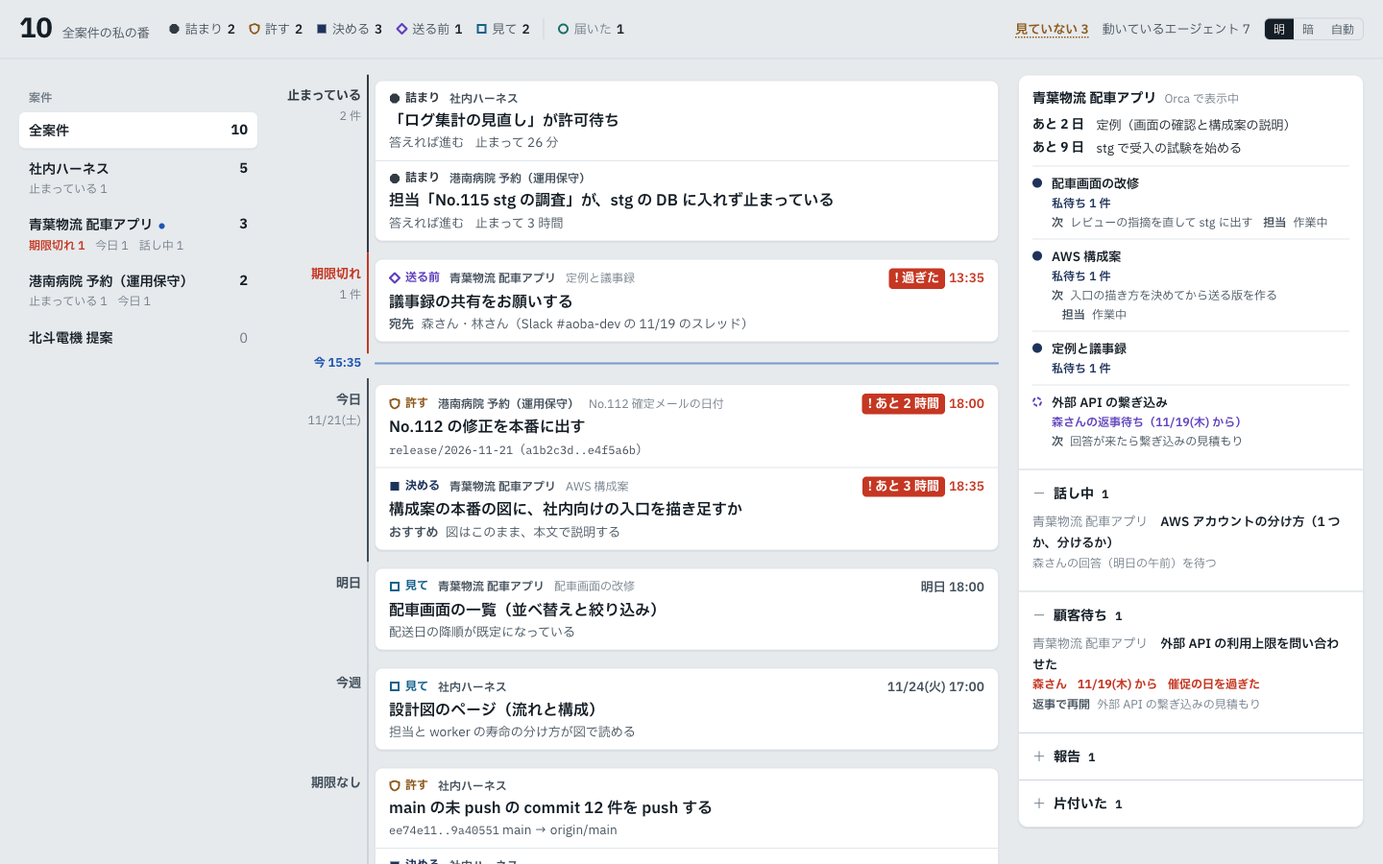
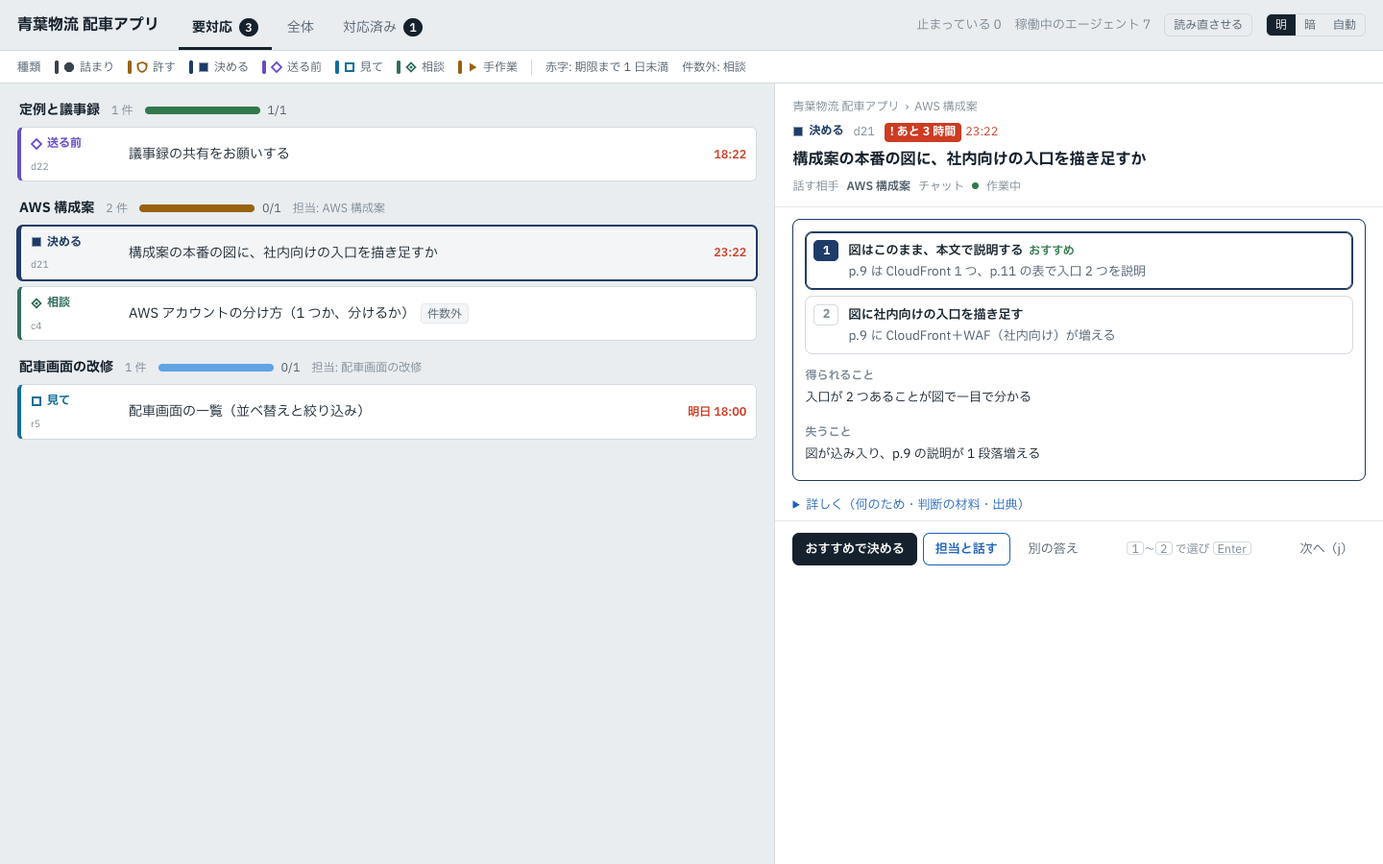
README と窓の見本の画像を版 3 にする
窓の 3 タブ・相談・書く道具・migrate-v3・依頼の帳簿の欄・checks の名前を、窓口と担当が README から引けるようにする。窓の本文が残りの高さを埋めない崩れ（内容が短い案件）も直す。

diff --git a/orca/plugins/cockpit/src/style.ts b/orca/plugins/cockpit/src/style.ts
@@ -253,7 +253,7 @@ body { margin:0; }
 .ck svg text { font-family:inherit; }
 
 /* ══ 窓の 3 タブ（window-view.ts）。パネルの部品（.fld・.opt・.btn・.acts）は上の決まりを使う ══ */
-.ck.win { height:100vh; min-height:0; display:grid; grid-template-rows:auto auto auto minmax(0,1fr); overflow:hidden; }
+.ck.win { height:100vh; min-height:0; display:flex; flex-direction:column; overflow:hidden; }
 .ck.win .pad { padding:18px; }
 .ck.win .hotc { color:var(--hot); }
 .ck.win .wtop { display:flex; flex-wrap:wrap; align-items:center; gap:8px 20px; padding:10px 18px 0; border-bottom:1px solid var(--rule); background:var(--bg); }
@@ -274,7 +274,7 @@ body { margin:0; }
 .ck.win .keyline .k { display:inline-flex; align-items:center; gap:5px; white-space:nowrap; }
 .ck.win .keyline .k .sw { width:4px; height:14px; border-radius:2px; background:var(--kc); }
 .ck.win .keyline .sep { width:1px; height:16px; background:var(--rule); }
-.ck.win .wbody { display:grid; min-height:0; }
+.ck.win .wbody { display:grid; flex:1; min-height:0; }
 .ck.win .wbody.split { grid-template-columns:minmax(0,1fr) minmax(420px,44%); }
 .ck.win .wbody.whole { grid-template-columns:minmax(0,1fr) 360px; }
 .ck.win .wpane { overflow-y:auto; padding:14px 18px 80px; display:grid; align-content:start; gap:14px; min-height:0; min-width:0; }

diff --git a/orca/plugins/cockpit/README.md b/orca/plugins/cockpit/README.md
@@ -1,37 +1,35 @@
 # 操縦席（cockpit）
 
-10 本前後の案件を同時に動かすときに、自分が決める・許す・送る・見るものだけを、全案件まとめて期限順の 1 列に並べる画面です。案件ごとの窓口のエージェント（各ワークスペースのメイン）がカードを書き、人は窓でボタンを押して返します。迷うカードは「担当と話す」で、その仕事の担当のチャットへ渡します。
+案件の窓口のエージェント（ワークスペースのメイン）が書いた確認依頼（カード）を並べ、人が決める・許す・送る・見るをその場で返す画面です。迷うカードは「担当と話す」で、その仕事の担当のチャットへ渡します。
 
 画面は 2 か所に出ます。
 
-- **窓**: 左のディスプレイに置くブラウザのタブ（`http://127.0.0.1:47231`）。全案件を出す
-- **パネル**: Orca の右のサイドバー。前面の案件 1 つだけを出す。Orca の下の帯にも前面の案件の「私の番 n」が出て、押すとパネルが開く
+- **窓**: 左のディスプレイに置くブラウザのタブ（`http://127.0.0.1:47231`）。Orca で前面の案件 1 つを、要対応・全体・対応済みの 3 タブで出す
+- **パネル**: Orca の右のサイドバー。前面の案件 1 つを期限順の 1 列で出す。Orca の下の帯にも前面の案件の「私の番 n」が出て、押すとパネルが開く
 
-![操縦席の窓（幅 1440、架空の 4 案件）](docs/window.png)
+![操縦席の窓（幅 1440、架空の案件）](docs/window.png)
 
 ## 毎日の使い方
 
-画面を開いたら、上の帯の数字で今の量をつかみ、1 列を上から片付けます。読むのは開いたカード 1 枚だけで、ほかのカードは 1 行の要約で何の件かが分かるようにしてあります。
-
 | 場面 | 見るところ | 押すもの |
 |---|---|---|
-| 朝に全体を見る | 上の帯の「私の番 n」と種類ごとの内訳、左の案件の列の「止まっている」「期限切れ」「今日」 | 1 列の先頭から開く。「決める」はおすすめを選んだ状態で開くので、よければ「おすすめで決める」を 1 回押す。押すと次のカードが開く |
-| Slack・Teams の連絡に返す | 「届いた」（送り主・原文・聞かれていること）と、担当が書いた「送る前」（宛先と本文） | 「送る前」は「コピーしてスレッドを開く」で貼って送り、「送った」を押す。返事が要らない連絡は「返事は要らない」 |
-| worker の結果を見る | 「見て」（依頼の原文・見てほしい点・確かめた結果）と、先頭の「止まっている」 | 「開く」で成果物を見て「これでよい」。直したいときは「直してほしい（担当と話す）」 |
-| 相談しながら資料を作る | 右の列の「話し中」 | 「担当と話す」を押すと、カードの書き出しがクリップボードに入り、開くチャットのタブの名前が知らせに出る。タブを開いて貼る |
-| 夕方に片付ける | 右の列の「報告」「顧客待ち」「片付いた」 | 「報告」は「読んだ」か項目ごとの「戻して」。「顧客待ち」は催促の日を過ぎると朱になる |
+| 朝に全体を見る | 窓の「要対応」。仕事ごとにまとまり、見出しに仕事の形・進み具合・担当が出る。先頭のカードの詳細が右に開いている | 右の返答のボタン。押すと次のカードが開く。`j`・`k` か「次へ」で進む |
+| worker の結果を見る | 「見て」の詳細（成果物・見てほしい点・確かめた結果） | 「成果物」で開いて「これでよい」。直したいときは「直してほしいことを書く」で文を書いて渡す |
+| 手作業を頼まれる | 「▶ 手作業」の詳細（どこで・打つコマンド・手順） | 「コピー」で写して打ち、「済ませた」 |
+| 相談しながら作る | 「相談」の詳細（論点・担当の今の考え）。件数には入れない | 「担当と話す」。カードは要対応に残り「話し中」の札が付く |
+| 仕事の今を見る | 窓の「全体」。一緒に作る・任せる・見張るの形ごとに仕事の箱が並び、工程の段・タスク・worker が入れ子で出る。右に済んでいない依頼 | タスクの札（□ v89 など）で要対応のそのカードへ、「担当と話す」「端末を見る」 |
+| 振り返る | 窓の「対応済み」。仕事ごと・新しい順に、返した答えと片付けた人 | 行を押すと中身。確認の返答が無いまま閉じた見てには赤い札 |
 
-操作してから 10 秒の間は「元に戻す」が残り、窓口が受け取るまで「受け取り待ち」と出ます。担当と話し始めたカードは「話し中」に移って件数から外れ、担当がカードを書き換えると「私の番」に戻ります。
+操作してから 10 秒の間は「元に戻す」が残り、窓口が受け取るまで「受け取り待ち」と出ます。
 
 ## 画面の見方
 
-- 上の帯: 全案件の私の番の合計と、詰まり・許す・決める・送る前・見ての内訳。「届いた」は件数に入れず、区切りの後ろに出す。「見ていない n」を押すと、操縦席の無い案件と、読めていない連絡の経路の一覧が開く
-- 左の列: 案件ごとの私の番の数と、止まっている・期限切れ・今日・話し中の件数。押すとその案件だけに絞る
-- 真ん中の 1 列: 止まっている → 期限切れ → 今の線 → 今日 → 明日 → 今週 → それより先 → 期限なし の順。今日と明日のカードは日付を省いて時刻だけを出す
-- 右の列: 絞った案件（全案件のときは Orca で表示中の案件）の節目と仕事ごとの状態、話し中・顧客待ち・報告・片付いた
-- 朱は期限まで 24 時間を切ったか、期限を過ぎたカードだけ。カードの種類は色と形の印で分ける
+- 上の帯: 案件名、3 つのタブ（要対応の数は詰まり・許す・決める・送る前・見ての合計）、止まっている数、稼働中のエージェントの数、「読み直させる」（前に伝えたことを窓口が落としたときの合図）、明・暗・自動
+- 凡例: タブごとに、見えているものの意味だけを 1 行で出す。要対応・対応済みはカードの種類、全体は仕事の形の 3 色（任せる＝青・一緒に作る＝黄土・見張る＝緑）・工程の段・タスクの点の色
+- 帳簿の欄の形が違うカードは、その欄を外して表示し、上に「帳簿の欄の形の違い n 件」の 1 行を畳んで出す。読めない・繋がらないものだけを赤の帯で出す
+- 必須の欄が欠けた確認依頼は窓に出さない。窓口が 30 分以内に埋めなかったものは、要対応の上に「帳簿の抜け」として出す
 
-幅 760 未満では 1 列に並び、上の切り替えで「私の番」と「案件の今・待ち」を出し分けます。明・暗・自動の切り替えはブラウザに覚えさせ、既定は明るい地です。
+幅 900 未満では、一覧と詳細を縦に並べます。パネルは版 2 の 1 列のままで、幅 760 未満では上の切り替えで「私の番」と「案件の今・待ち」を出し分けます。
 
 ## カード
 
@@ -42,19 +40,19 @@
 | 決める | 設計・要件・費用・言い方が分かれる | おすすめで決める・選び直して決める・別の答え | 数える |
 | 送る前 | 顧客か社内へ出す文面ができた | コピーしてスレッドを開く・送った・担当と直す・送らない | 数える |
 | 見て | 任せた仕事の出来上がり | これでよい・直してほしいことを書く・直してほしい（担当と話す） | 数える |
-| 届いた | 顧客の連絡が拾われた | 担当と話す・返事は要らない | 数えない |
-| 話し中 | 担当と会話で作っている | 続きを話す | 数えない |
-| 報告 | エージェントが決めた・済ませた | 戻して・読んだ | 数えない |
+| 相談 | 案がまだ分かれていない。担当が詰めたい（`issue`・`stance`・`known`・`undecided`） | 担当と話す | 数えない |
+| 届いた | 顧客の連絡が拾われた。窓では全体の「見張る」に出す | 担当と話す・返事は要らない | 数えない |
+| 報告 | エージェントが決めた・済ませた。要対応の下の「読むだけ」 | 戻させる・読んだ | 数えない |
 
-「決める」のカードは、何のため・なぜ今決めるか・選択肢・返事が無いとき・決めるための情報（これは何か・今どうなっているか・入れるならどうするか・得られること・失うこと）の順に並びます。選択肢を上に置くのは、おすすめと例で決められることが多く、迷ったときだけ下を読めば足りるためです。
+版 2 の開いた `talk` は、読み込みのときに相談として読みます（論点に `next`、担当の考えに `last`）。「担当と話す」を押したカードは要対応に残り、「話し中」の札が付きます。数える種類なら数えたままです。
 
-「見て」の「直してほしいことを書く」は、書いた文を本文つきの `talk` の操作（`text` に原文）として記録します。カードは件数から外れて「直しを頼んだ（受け取り待ち）」、窓口が受け取ると「直し待ち」になり、担当が書き換えて `rev` を上げると私の番に戻ります。
+「見て」の「直してほしいことを書く」は、書いた文を本文つきの `talk` の操作（`text` に原文）として記録します。カードは件数から外れて「直し依頼済み（受領待ち）」、窓口が受け取ると「直し待ち」になり、担当が書き換えて `rev` を上げると要対応に戻ります。
 
-手作業を頼む「許す」は `manual: { "where": "どこで", "command": "打つコマンド", "steps": ["手順"], "check": "済ませたあと窓口が確かめること" }` を書きます。カードの頭にどこで・打つコマンド（コピーのボタンつき）・手順を出し、「済ませた」は `sent` の操作で窓口に届きます。`command` も `steps` も無い `manual` は `checks.empty_manual` に出ます。
+手作業を頼む「許す」は `manual: { "where": "どこで", "command": "打つコマンド", "steps": ["手順"], "check": "済ませたあと窓口が確かめること" }` を書きます。
 
-担当と話すは、担当が端末ならその端末、チャットならチャットのある worktree を前に出してタブの題を案内します（Orca にはチャットのタブを前に出す手段がありません）。`worker-start --agent` で立てたチャットの担当は、`owners` に受け取りの `terminal`（`structworker_…`）が書かれていても、`tasks[].worker` の Dispatch からチャットを引きます。端末が閉じた・チャットが閉じた・worktree が片付けられたときは何も開かず、理由を出してカードを話し中にしません。
+カードには種類ごとに必須の欄があります（共通: どの仕事の話か・何のため・なぜ今か期限・返事が無いとき・出典。`src/model.ts` の `missingFields`）。欠けたカードは窓にもパネルにも出さず、`checks.incomplete_cards` で窓口に名指しします。
 
-カードの欄の形が違うとき（`evidence` を文字列で書くなど）は、その欄を出さずに表示し、どのカードのどの欄かを上の帯に出します。窓全体の描画は止めません。
+決める・見てのカードは、承認を求める要素を `elements: [{ "n": 1, "text": "…" }]` で持てます。「これでよい」を取り込む前に、窓口は全部の要素の行き先を `element_map: [{ "n": 1, "task": "t12" } | { "n": 2, "request": "r30#1" } | { "n": 3, "skip": "理由" }]` に書きます（書く道具が欠けた番号を返して断る）。
 
 ![カードの移り変わり](docs/card-states.svg)
 
@@ -62,12 +60,12 @@
 
 | キー | 動き |
 |---|---|
-| `j`・`k` | 1 列の次・前のカードを開く |
+| `j`・`k` | 次・前のカードを開く（窓は要対応の上から） |
 | `1`〜`9` | 選択肢を選ぶ |
 | `Enter` | 選んだ選択肢で決める（おすすめを選んだままの状態では決めない。続けて押して 2 枚決めてしまわないように） |
 | `t` | 担当と話す |
 | `u` | 最後の操作を元に戻す |
-| `Esc` | カードを閉じる |
+| `Esc` | カードを閉じる（窓の要対応では先頭のカードに戻る） |
 
 ## 窓ではできないこと
 
@@ -89,7 +87,7 @@
 
 カードの今の状態は、`cockpit.json` の `state` に操作ログを重ねて決めます（`src/model.ts` の `overlay`）。担当が書き換えてバージョン（`rev`）が上がると、古いバージョンへの操作は反映されず、カードはもう一度私の番に出ます。
 
-### ファイルの形（バージョン 2）
+### ファイルの形（version 2 のまま欄を足した版 3）
 
 型の全体は `src/model.ts`、全部の種類のカードを使った例は `fixtures/sample.ts` にあります。最小の例は次のとおりです。
 
@@ -98,10 +96,10 @@
   "version": 2,
   "workspace": { "name": "問い合わせ管理システム", "milestones": [{ "date": "2026-11-24", "label": "定例" }] },
   "main": { "agent": "claude", "terminal": "term_abc" },
-  "streams": [{ "id": "s1", "title": "一覧画面の改修" }],
+  "streams": [{ "id": "s1", "title": "一覧画面の改修", "form": "delegate" }],
   "tasks": [
     { "id": "t1", "stream": "s1", "phase": "実装", "title": "並べ替えと絞り込み", "state": "run",
-      "worker": { "task_id": "task_123", "dispatch_id": "ctx_456" } }
+      "worker": { "run_id": "run_123", "task_id": "task_456" } }
   ],
   "owners": [{ "id": "o1", "title": "一覧画面の改修", "stream": "s1", "agent": "claude", "session": "sess_789" }],
   "cards": [
@@ -113,21 +111,41 @@
         { "id": "b", "label": "担当者が自分で取る" }
       ] }
   ],
+  "requests": [
+    { "id": "r1", "at": "2026-11-21T09:00:00+09:00", "title": "一覧に並べ替えを足す", "kind": "work", "tasks": ["t1"],
+      "utterances": [{ "id": "u-12", "quote": "一覧に並べ替えを足して" }], "done_when": ["並べ替えが PR でマージされる"] }
+  ],
+  "intake": { "through": "u-12", "none": [] },
   "applied_ops": []
 }
 ```
 
 | 欄 | 中身 |
 |---|---|
-| `streams` | 仕事（大タスク）。担当のチャットは仕事ごとに 1 つまで |
-| `tasks` | 仕事の下の作業。`state` は `stop`・`run`・`wait`・`idle`・`ok`。`worker`（Orca の orchestration の Task と Dispatch の id）があれば、状態は Dispatch の様子から取る |
+| `streams` | 仕事（大タスク）。担当のチャットは仕事ごとに 1 つまで。`form` は仕事の形（`delegate` 任せる・`cowork` 一緒に作る・`watch` 見張る）。無ければ `checks.no_form` に出る |
+| `tasks` | 仕事の下の作業。`state` は `stop`・`run`・`wait`・`idle`・`ok`。`worker` は Orca の orchestration の受け取りの `run_id`・`task_id`。窓は Run の Task の続き（follow_up_of）をたどって今の Dispatch を引き、状態をその様子から取る（版 2 の `dispatch_id` も読む）。`reviewed_for` は見直した判断の id |
 | `owners` | 仕事の担当（Orca のチャットか端末）。カードの「担当と話す」の相手。チャットは `session`（orcaSessionId）、端末は `terminal`（`term_…`）。担当の無い仕事のカードは窓口と話す |
 | `routes` | 連絡を拾う経路（Slack・Teams・メール）と、見張りが読んだ時刻。古いと「見ていない」に出る |
-| `cards` | 人に返してほしいもの。`kind` は上のカードの 8 種類（`stuck`・`permit`・`decide`・`send`・`review`・`inbox`・`talk`・`report`） |
-| `requests` | 人からの依頼の原文 |
+| `cards` | 人に返してほしいもの。`kind` は `stuck`・`permit`・`decide`・`send`・`review`・`consult`・`inbox`・`report`（版 2 の `talk` も読む）。`request` は依頼の原文、`request_id` は帳簿の依頼の id |
+| `requests` | 依頼の帳簿。`utterances`（発言の記録の id と引用）か `source`（`session`・`at`・`quote`）、`done_when`（済の条件 1〜3）、`kind`、`evidence`（`{ when, kind, ref }`、`when` は済の条件の 1 始まりの番号）。済は `state` を書かず、証拠から `src/state.ts` が決める。`legacy` は移し替えの時点にあった行の印 |
+| `intake` | 発言の仕分けの位置（`through` までの発言は依頼か `none` に結んである） |
 | `applied_ops` | 窓口が反映し終えた操作の `op_id` |
 
-人の操作は `.orca/cockpit.user.json` に `{ "ops": [{ "op_id": 1, "at": "…", "item_id": "d1", "item_rev": 1, "type": "decide", "option_id": "a" }] }` の形で追記されます。窓と同じ判定済みの状態は `node window/state.ts <ワークスペースの root>` で JSON として読めます。hook と窓口はこの出力の `overview`・`mine`・`jobs`・`checks` を読みます。
+帳簿は Write・Edit で書かず、下の「書く道具」を通します。人の操作は `.orca/cockpit.user.json` に `{ "ops": [{ "op_id": 1, "at": "…", "item_id": "d1", "item_rev": 1, "type": "decide", "option_id": "a" }] }` の形で追記されます。窓と同じ判定済みの状態は `node window/state.ts <ワークスペースの root>` で JSON として読めます。hook と窓口はこの出力の `overview`・`mine`・`jobs`・`tasks`（`from` と今の Dispatch の `dispatch`）・`checks` を読みます。`checks` の版 3 の検査は `incomplete_cards`・`incomplete_requests`・`unsorted`・`stale_tasks`・`loose_tasks`・`unknown_phase`・`no_form`・`unmapped_elements`・`unproven`・`affected_tasks` です。
+
+### 書く道具（cockpit-write）
+
+```sh
+bin/cockpit-write <root> < change.json            # 検査して書く（一時ファイルに書いて rename）
+bin/cockpit-write --dry-run <root> < change.json  # 書かずに検査だけ（ロックファイルも作らない）
+bin/cockpit-write migrate-v3 [<root>] [--write]   # 版 3 へ移す（--write が無ければ結果を出すだけ）
+```
+
+- 変更は `{ "cards": [...], "tasks": [...], "requests": [...], "streams": [...], "owners": [...], "intake": {...}, "applied_ops": [...] }` を id 単位で足すか置き換える。全体を置き換える入口は無い
+- 検査: 欄の形・参照（仕事・タスク・担当・依頼の id）・`rev`（開いたカードの中身を変えたら 1 上げる。片付けるだけ・要素の行き先を書くだけなら据え置き）・依頼の欄・仕分けの位置・要素の行き先。通らなければ書かずに理由を返す
+- 必須の欄が欠けたカードは書くが、注意で名指しする（窓には出ない）
+- migrate-v3: 開いた `talk` を `consult` に、`created_at` を `at` に写し、worker に `run_id` を補う。今ある依頼に `legacy` を付け、タスクとカードが全部済で深田さんの返答が残るものだけ済にし、ほかは窓口が仕分ける一覧に出す。閉じたカードの `resolved_at` を補い（`resolved_at_inferred`）、深田さんの操作の無いまま閉じた見てに `closed_without_review` を付ける。元は `cockpit.v2.json` に控える
+- 台帳の取り込み: 取り込む依頼を `{ "requests": [...] }` の変更にして、`--dry-run` で通ることを確かめてから書く。既存の依頼と同じ件はその id で置き換え、`legacy` を外して `utterances` か `source`・`done_when` を足す
 
 ### 構成
 
@@ -137,7 +155,9 @@
 | `src/migrate.ts` | バージョン 1（`items`）からバージョン 2（`cards`）への移し替え |
 | `src/state.ts` | 期限の区切り・私の番の 1 列・案件の今・話す相手・Orca のサイドバーの状態をまとめて決める。画面と `window/state.ts` はここを通す |
 | `src/store.ts` | `.orca/` のファイルを読む・操作を追記する（バージョンと選択肢を確かめる）・窓口に合図を送る。パネルの worker と窓の常駐プロセスが共有する |
-| `src/view.ts` | 表示の状態から HTML を作る（DOM に触らない） |
+| `src/view.ts` | パネルの描画（表示の状態から HTML を作る。DOM に触らない）と、窓と共有する部品 |
+| `src/window-view.ts` | 窓の 3 タブ（要対応・全体・対応済み）の描画 |
+| `src/write.ts`・`window/write.ts`・`bin/cockpit-write` | 帳簿を書く道具と、版 3 への移し替え（migrate-v3） |
 | `src/style.ts` | CSS（明暗のトークン、container query で 1440・760 未満・520 未満を切り替える） |
 | `src/controller.ts` | クリックやキーボード入力を操作につなぐ。パネルと窓のページが共有する |
 | `src/worker.ts` | パネルの worker。前面のワークスペースのファイルを見張ってパネルに送り、下の帯を更新し、前面が変わるたびに `focus.json` を書く |
@@ -146,7 +166,7 @@
 | `window/page.ts` | 窓のページ（controller の送り先を常駐プロセスにする） |
 | `window/migrate.ts` | 移し替えのコマンド |
 | `window/state.ts` | 判定済みの状態を JSON で出すコマンド |
-| `window/orca-state.ts` | `orca worktree ps`・`terminal list`・`orchestration worker-show` からメイン・worker・worktree を決める |
+| `window/orca-state.ts` | `orca worktree ps`・`terminal list`・`orchestration worker-show`・`task-list`・`dispatch-show` からメイン・worker・worktree と、タスクの今の Dispatch を決める |
 | `fixtures/sample.ts`・`fixtures/demo.ts` | 架空の 4 案件の見本と、偽の Orca で窓を手元で動かす道具 |
 
 <details>
@@ -194,8 +214,8 @@ Orca ──workspace.changed / agent.status.changed──▶ パネルの worker
 ```
 
 - 起動は launchd などの常駐の仕組みに任せる。ブラウザ向けの TS は、配るときに Node の `module.stripTypeScriptTypes` で型を除く。ビルドの手順は無い。配るのは `window/server.ts` の `SERVED` に書いたファイルだけ
-- 操縦席の無い本線と、読めていない連絡の経路（`routes`）は「見ていない」として数を出す。見ていないものがあるときは「何もしなくてよい」と出さない
-- worker の記録: 窓口が担当や worker を Orca の orchestration で立てたら、タスクの `worker` に受け取った `task_id`・`dispatch_id` を書く。窓は済んでいないタスクの Dispatch を `orca orchestration worker-show --dispatch <id> --full` で引き、Dispatch の端末で worker とタスクを結ぶ。worker_done を返したら取り込み待ち、起動できない・落ちた・人の確認待ちは詰まり、Orca に無ければ「Orca に見つからない」の詰まりになる
+- 窓は前面の案件だけを描き、操縦席の無いワークスペースは並べない。読めていない連絡の経路（`routes`）は全体の「見張る」に出す
+- worker の記録: 窓口が担当や worker を Orca の orchestration で立てたら、タスクの `worker` に受け取った `run_id`・`task_id` を書く（`bin/orca-launch --cockpit-task <task id>` で立てると、題・comment・親の worktree をタスクから決め、依頼の済の条件を brief に足す）。窓は Run の Task の続きをたどって今の Dispatch を引き、`orca orchestration worker-show --dispatch <id> --full` で様子を読む。Dispatch の端末で worker とタスクを結ぶ。worker_done を返したら取り込み待ち、起動できない・落ちた・人の確認待ちは詰まり、Orca に無ければ「Orca に見つからない」の詰まりになる
 - Orca の監視外で止まったもの（`bin/stallwatch` が書く `alerts.json`）は、窓の上にエラーの行で出す
 - 前面のワークスペースは、パネルの worker が書く `focus.json` を見張って取る（ポーリングしない）
 - Orca を呼ぶのは窓が表示されている間だけで、(1) 接続したとき、(2) `focus.json` にあるエージェントの変化時刻が変わったとき（5 秒に 1 回まで）、(3) 60 秒ごと
@@ -217,9 +237,9 @@ Orca ──workspace.changed / agent.status.changed──▶ パネルの worker
 </details>
 
 <details>
-<summary>前にも言った・引き継ぎ</summary>
+<summary>読み直させる（前にも言った）・引き継ぎ</summary>
 
-- 案件 1 つを出しているとき（パネル・絞り込み）は、上の帯に「前にも言った」がある。押すと、カードを持たない `repeat`（`item_id` は空）を追記する。前に伝えたことを窓口が落としたという合図で、窓口の hook が押した回数を数え、新しいチャットへの引き継ぎに使う
+- 窓とパネルの上の帯に「読み直させる」（パネルは「前にも言った」）がある。押すと、カードを持たない `repeat`（`item_id` は空）を追記する。前に伝えたことを窓口が落としたという合図で、窓口の hook が押した回数を数え、新しいチャットへの引き継ぎに使う
 - hook が引き継いだときに書く `.orca/cockpit/handoff.json`（`at`・`reason`）を読み、1 日だけ「窓口を新しいチャットに引き継ぎました」と出す
 
 </details>
